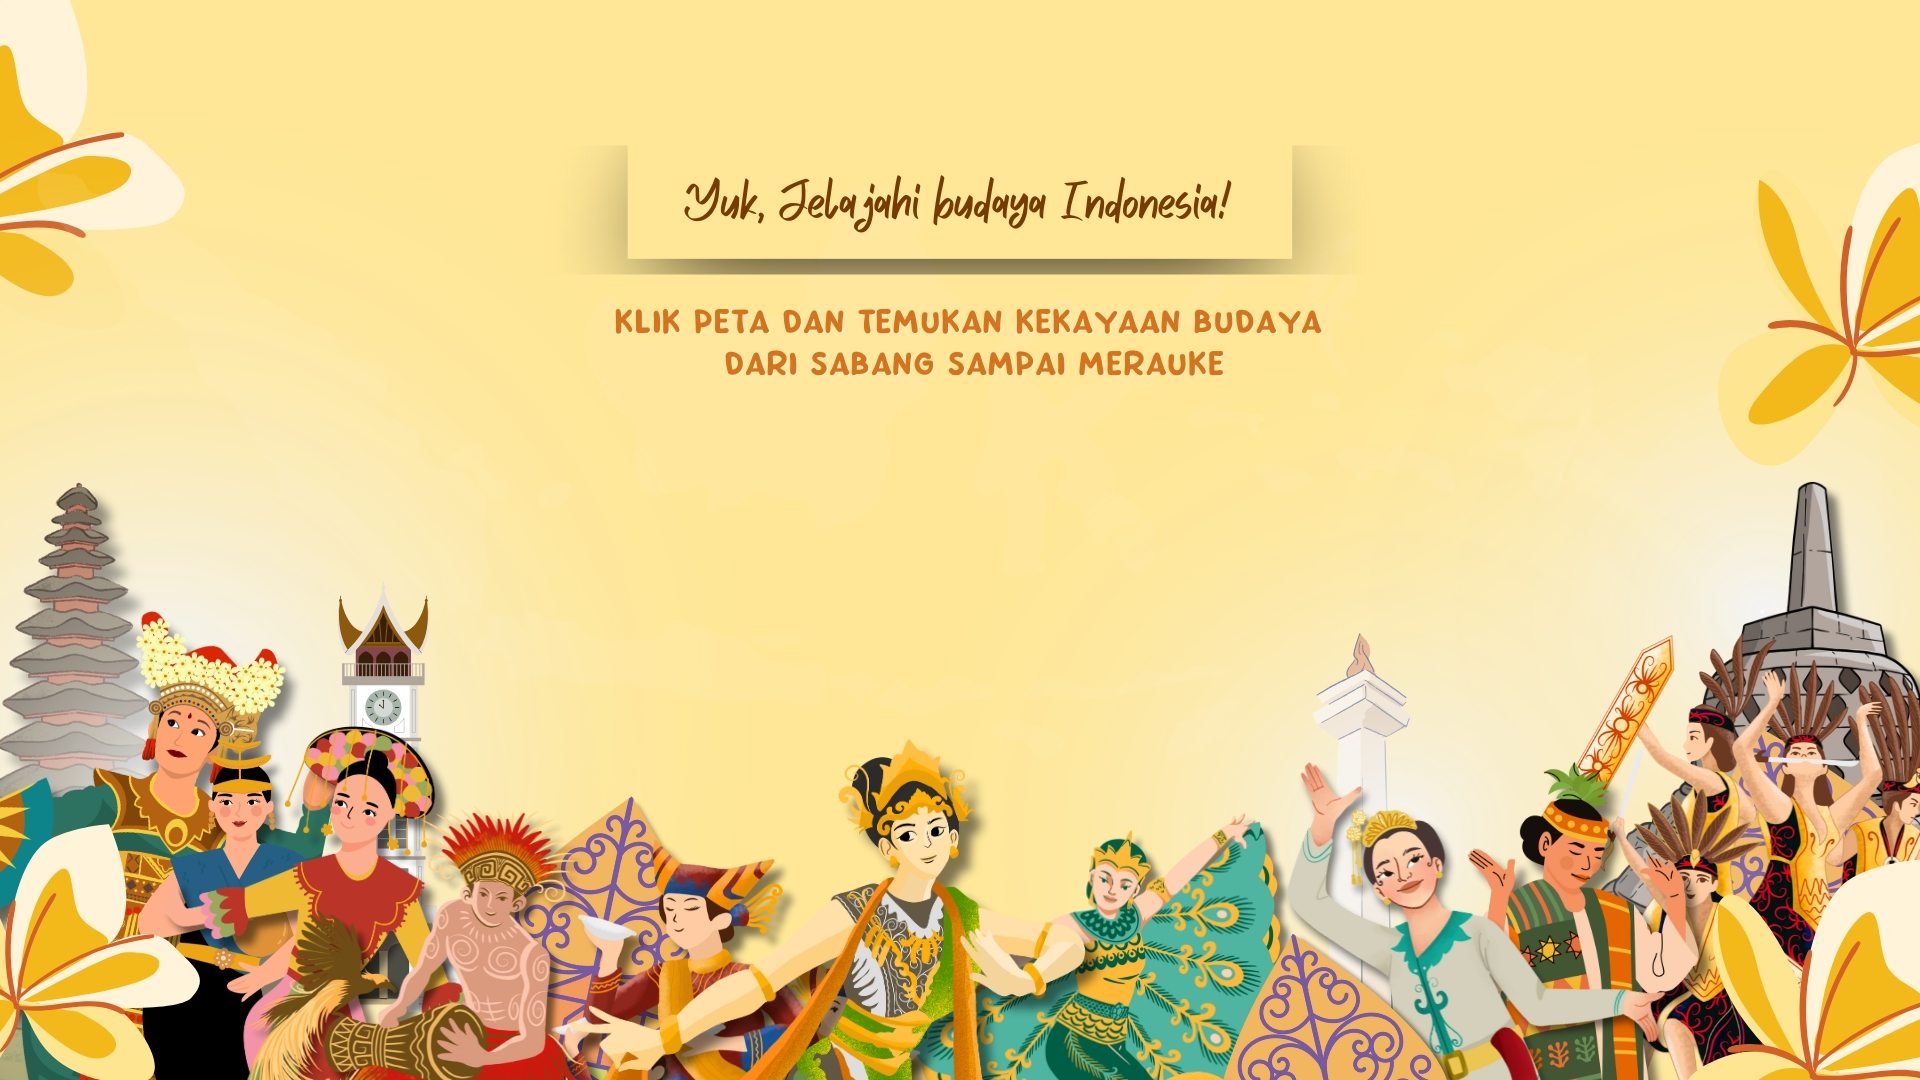
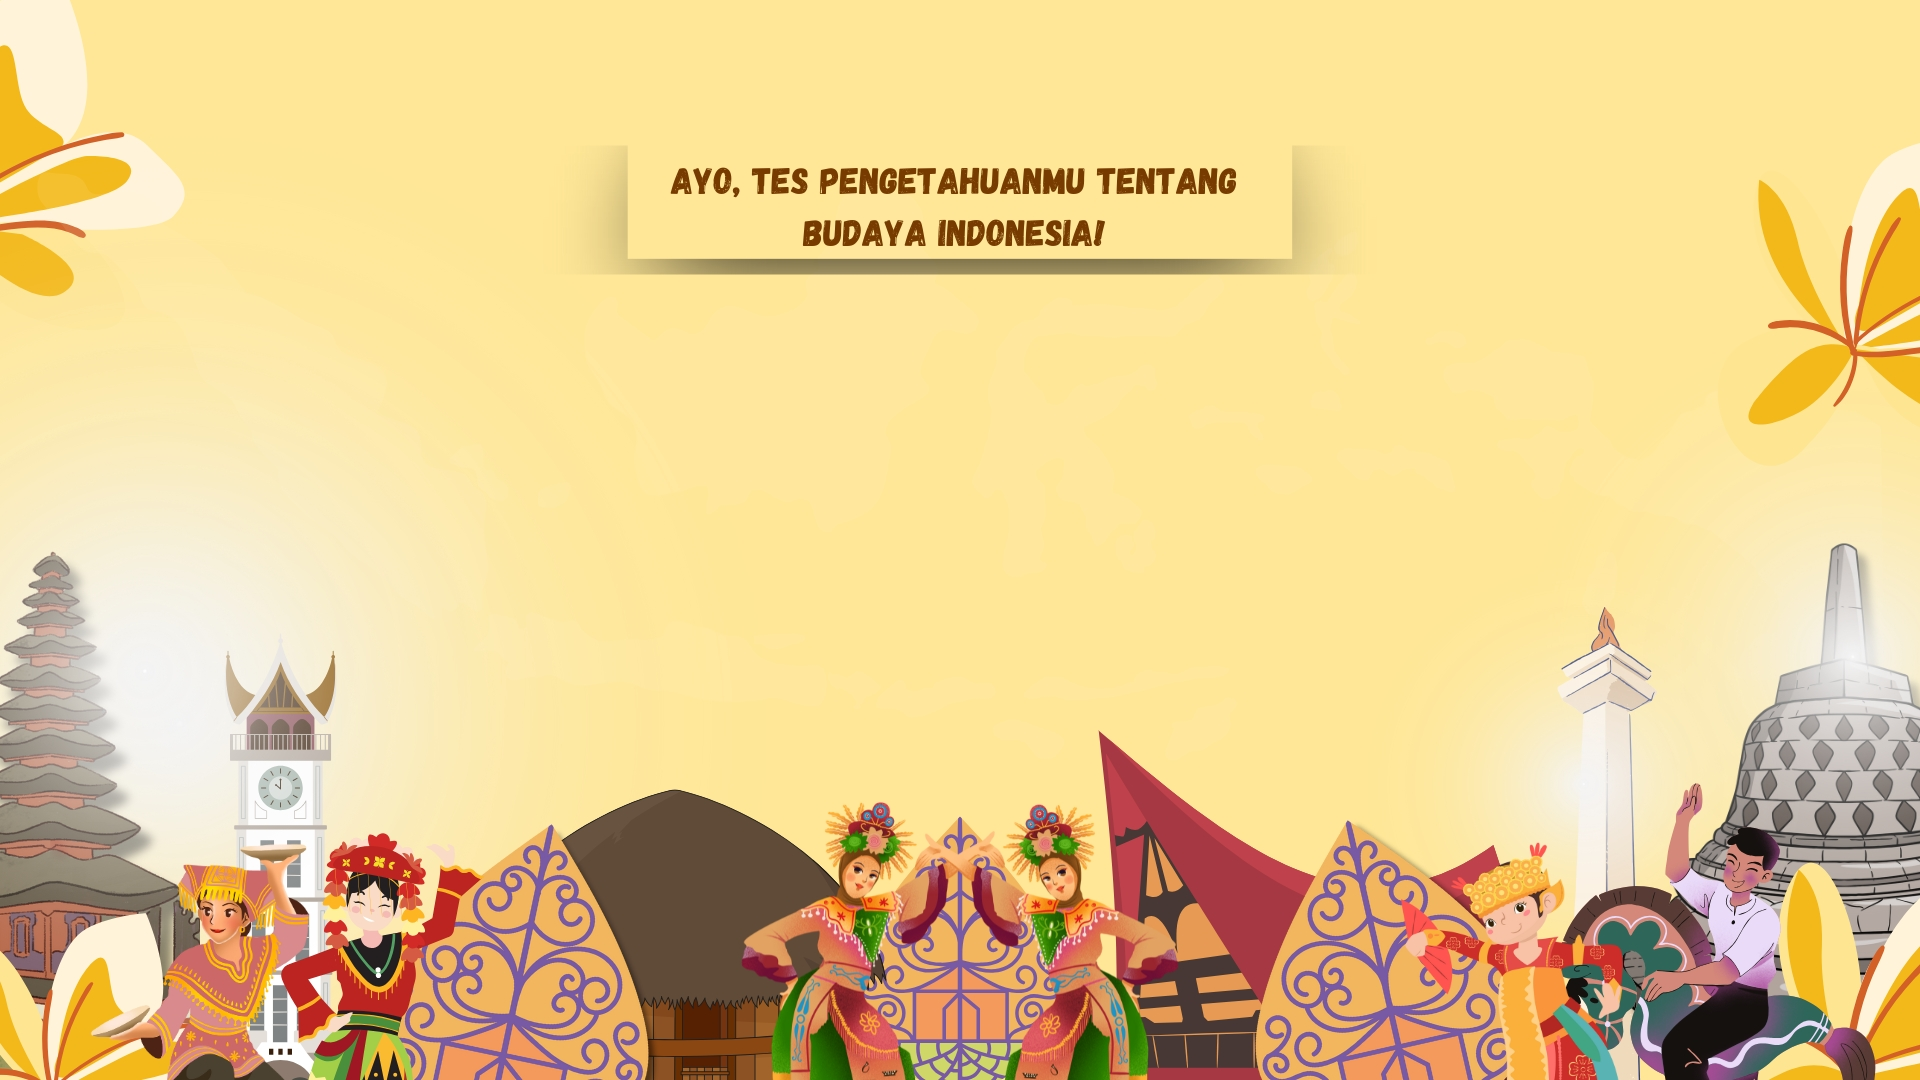
updates

diff --git a/src/app/evaluasi/page.jsx b/src/app/evaluasi/page.jsx
@@ -225,7 +225,7 @@ export default function EvaluasiPage() {
       >
         {/* Background image */}
         <img
-          src="/images/6.jpg"
+          src="/images/5.jpg"
           alt="background"
           style={{
             width: '100%',

diff --git a/src/app/jelajah/page.jsx b/src/app/jelajah/page.jsx
@@ -29,7 +29,7 @@ export default function Jelajah() {
         }}
       >
         <img
-          src="/images/5.jpg"
+          src="/images/4.jpg"
           alt="background"
           style={{
             width: '100%',
